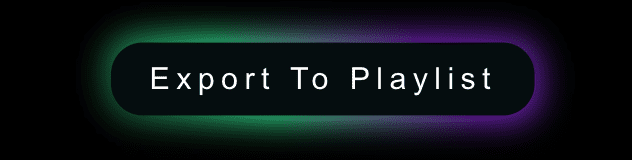
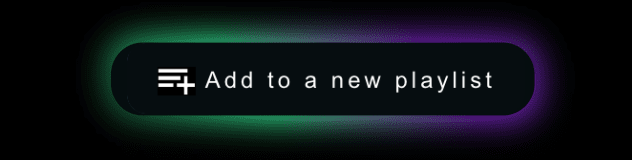
update: guides and asset for addplaylist button

Changed region(s): [[0.2405, 0.4062, 0.7816, 0.5938]]

diff --git a/public/html/howitworks.html b/public/html/howitworks.html
@@ -61,7 +61,7 @@
                     </ul>
                 <hr>
                 <img src="/images/guides/step5.png" alt="guide5" style="width: 60%; height: 60%; display: block; margin: 0 auto; border-radius: 15px;">   
-                <p>Finally, by clicking 'Export to Playlist' (Results and Recommendations), these songs will be added to a new playlist in your Spotify account, as appropriate.</p>
+                <p>Finally, by clicking 'Add to a new playlist' (Results and Recommendations), these songs will be added to a new playlist in your Spotify account, as appropriate.</p>
                 <hr>
                 <br>
                 <div class="button-new" style="width: 50%; text-align: center; display: block; margin: 0 auto;" onclick="window.close();">
